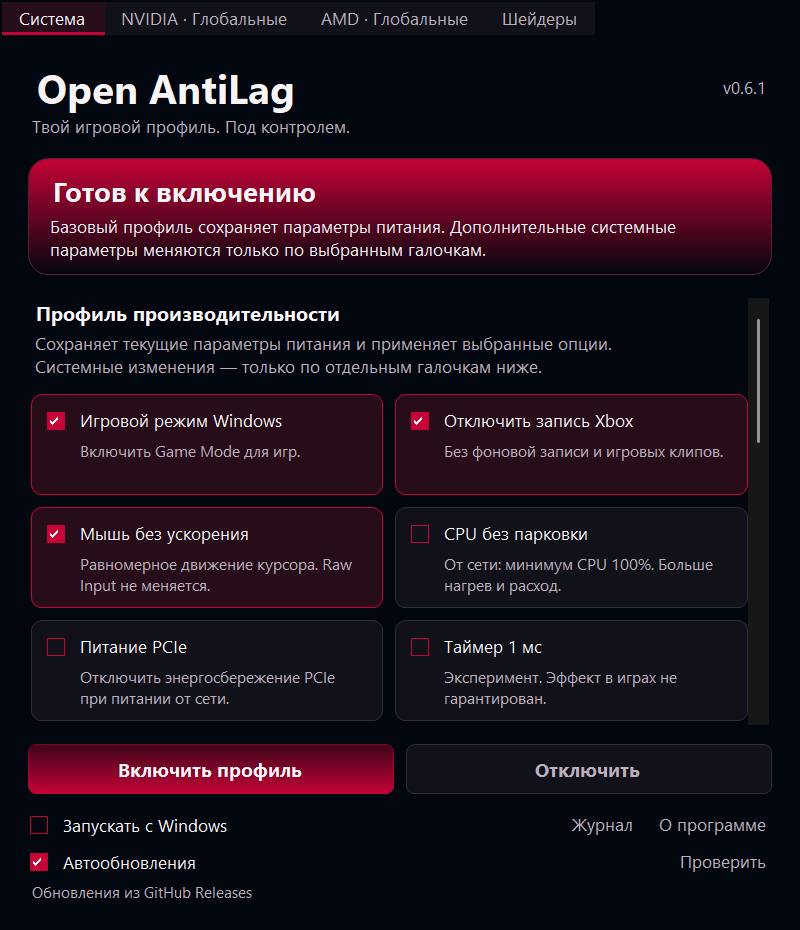
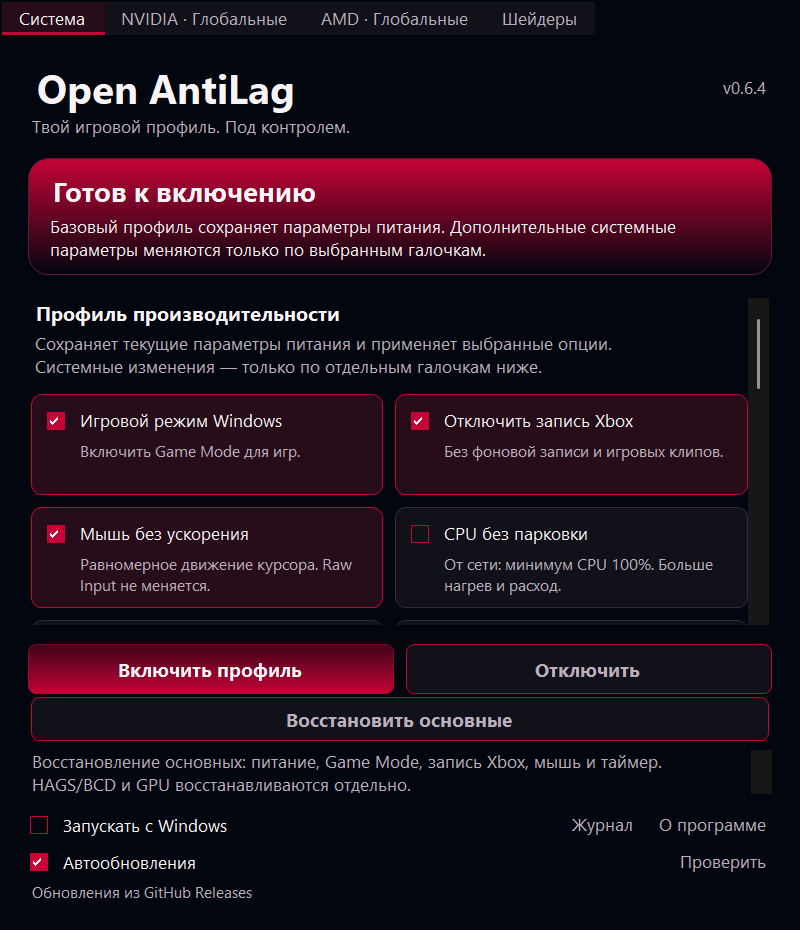
Keep system choices interactive and add independent basic profile recovery

Changed region(s): [[0.0312, 0.686, 0.8438, 0.8731], [0.9375, 0.4366, 0.9688, 0.4677]]

diff --git a/src/MainForm.cs b/src/MainForm.cs
@@ -15,7 +15,8 @@ namespace OpenAntiLag {
         readonly Label status=new Label(), detail=new Label();
         readonly OptionCard gameMode=new OptionCard(), capture=new OptionCard(), mouse=new OptionCard(), cpu=new OptionCard(), pcie=new OptionCard(), timer=new OptionCard(), startup=new OptionCard { Compact=true };
         readonly OptionCard[] advanced=MachineSettings.Ids.Select(id=>new OptionCard {Name="advanced_"+id}).ToArray();
-        readonly ProfileButton enable=new ProfileButton { Primary=true }, disable=new ProfileButton();
+        readonly ProfileButton enable=new ProfileButton { Primary=true }, disable=new ProfileButton(), restoreBasic=new ProfileButton {Name="restoreBasic"};
+        readonly TextBox recoveryResult=new TextBox {Name="recoveryResult",Multiline=true,ReadOnly=true,Height=44,Dock=DockStyle.Fill,ScrollBars=ScrollBars.Vertical,BorderStyle=BorderStyle.None,BackColor=Theme.Background,ForeColor=Theme.Muted};
         readonly NotifyIcon tray;
         readonly System.Windows.Forms.Timer poll;
         readonly Panel scroll=new Panel { Name="profileOptionsScroll",Dock=DockStyle.Fill, AutoScroll=true };
@@ -38,7 +39,7 @@ namespace OpenAntiLag {
             var header=new TableLayoutPanel { Dock=DockStyle.Fill, AutoSize=true, ColumnCount=2, Margin=new Padding(0,0,0,20) };
             header.ColumnStyles.Add(new ColumnStyle(SizeType.Percent,100)); header.ColumnStyles.Add(new ColumnStyle(SizeType.AutoSize));
             header.Controls.Add(Label("Open AntiLag",24,Theme.Text,true),0,0);
-            var version=Label("v0.6.2",10,Theme.Muted,false); version.Anchor=AnchorStyles.Right; header.Controls.Add(version,1,0);
+            var version=Label("v0.6.4",10,Theme.Muted,false); version.Anchor=AnchorStyles.Right; header.Controls.Add(version,1,0);
             var subtitle=Label("Твой игровой профиль. Под контролем.",10,Theme.Muted,false); header.Controls.Add(subtitle,0,1); header.SetColumnSpan(subtitle,2); root.Controls.Add(header,0,0);
             var stateCard=new GradientCard { Dock=DockStyle.Fill, AutoSize=true, ColumnCount=1, BackColor=Theme.Background, Padding=new Padding(18,14,18,14), Margin=new Padding(0,0,0,20) };
             stateCard.ColumnStyles.Add(new ColumnStyle(SizeType.Percent,100));
@@ -64,20 +65,26 @@ namespace OpenAntiLag {
             var advancedGrid=new TableLayoutPanel {AutoSize=true,AutoSizeMode=AutoSizeMode.GrowAndShrink,Dock=DockStyle.Top,ColumnCount=1,Margin=Padding.Empty};advancedGrid.ColumnStyles.Add(new ColumnStyle(SizeType.Percent,100));
             string[] titles={"BCD: автоматический источник часов","BCD: платформенный тик","BCD: отключить динамический тик","Включить HAGS","Приоритет активных приложений"};
             string[] descriptions={"Удалить принудительный useplatformclock. Не отключает устройство HPET.","useplatformtick = yes. Экспериментальная отладочная настройка.","disabledynamictick = yes. Может увеличить расход энергии.","Аппаратное планирование GPU: HwSchMode = 2. После перезагрузки.","Win32PrioritySeparation = 42 (0x2A). Эффект зависит от нагрузки."};
-            var savedMachine=system.State;
+            MachineState savedMachine;
+            try {savedMachine=system.State;}catch(Exception error){savedMachine=new MachineState();recoveryResult.Text="Системный журнал недоступен: "+error.Message+" Основные параметры можно восстановить отдельно.";}
             for(int i=0;i<advanced.Length;i++){advancedGrid.RowStyles.Add(new RowStyle(SizeType.AutoSize));AddOption(advancedGrid,advanced[i],titles[i],descriptions[i],0,i,savedMachine.Version==2&&savedMachine.Phase!="Disabled"&&savedMachine.Entries.Any(x=>x.Id==MachineSettings.Ids[i]));advanced[i].Dock=DockStyle.Top;}
             content.Controls.Add(advancedGrid);
             var actions=new TableLayoutPanel { Dock=DockStyle.Fill, AutoSize=true, ColumnCount=2, Margin=new Padding(0,16,0,12) };
             actions.ColumnStyles.Add(new ColumnStyle(SizeType.Percent,50)); actions.ColumnStyles.Add(new ColumnStyle(SizeType.Percent,50));
             StyleButton(enable,"Включить профиль"); StyleButton(disable,"Отключить"); enable.Name="enable"; disable.Name="disable"; enable.Margin=new Padding(0,0,6,0); disable.Margin=new Padding(6,0,0,0);
             enable.Enabled=disable.Enabled=false; actions.Controls.Add(enable); actions.Controls.Add(disable); root.Controls.Add(actions,0,3);
+            StyleButton(restoreBasic,"Восстановить основные");restoreBasic.Height=44;actions.Controls.Add(restoreBasic,0,1);actions.SetColumnSpan(restoreBasic,2);
+            recoveryResult.HandleCreated+=delegate{WindowTheme.Scrollbar(recoveryResult.Handle);};
+            recoveryResult.Margin=new Padding(0,6,0,0);if(String.IsNullOrEmpty(recoveryResult.Text))recoveryResult.Text="Восстановление основных: питание, Game Mode, запись Xbox, мышь и таймер. HAGS/BCD и GPU восстанавливаются отдельно.";
+            actions.Controls.Add(recoveryResult,0,2);actions.SetColumnSpan(recoveryResult,2);
+            restoreBasic.Click+=async delegate {await RestoreBasic();};
             enable.Click+=async delegate { await ChangeProfile(true); }; disable.Click+=async delegate { await ChangeProfile(false); };
             var footer=new TableLayoutPanel { Dock=DockStyle.Fill, AutoSize=true, ColumnCount=3, Margin=Padding.Empty };
             footer.ColumnStyles.Add(new ColumnStyle(SizeType.Percent,100)); footer.ColumnStyles.Add(new ColumnStyle(SizeType.AutoSize)); footer.ColumnStyles.Add(new ColumnStyle(SizeType.AutoSize));
             startup.Text="Запускать с Windows"; startup.Dock=DockStyle.Fill; startup.Checked=!preview && Startup.Enabled; startup.Margin=Padding.Empty; footer.Controls.Add(startup,0,0);
             startup.CheckedChanged+=delegate { if(initializing||preview)return; try { Startup.Enabled=startup.Checked; } catch(Exception error) { initializing=true; startup.Checked=!startup.Checked; initializing=false; Report(error); } };
             footer.Controls.Add(Link("Журнал",delegate { if(!preview) { Directory.CreateDirectory(Program.DataDirectory); Process.Start("explorer.exe","\""+Program.DataDirectory+"\""); } }),1,0);
-            footer.Controls.Add(Link("О программе",delegate { MessageBox.Show(this,"Open AntiLag 0.6.2 • MIT\nМодуль шейдеров: отдельный SCSKiller 1.2.5, GPL-3.0-or-later и исключения.\nhttps://github.com/BlueHeisenberg/SCSKiller\n\nИсходные значения сохраняются до изменений. Внешние изменения пользователя при откате сохраняются.\n\nПрофиль не гарантирует прирост FPS или нулевую задержку. Настройки Xbox зависят от версии Windows. Таймер 1 мс не является универсальной оптимизацией игр.\n\nBCD, HAGS и системные приоритеты доступны по отдельным галочкам, выключенным по умолчанию. Требуют UAC и перезагрузки. Старые профили можно восстановить. Питание копируется из текущего плана; дополнительные опции требуют отдельного выбора.","Open AntiLag",MessageBoxButtons.OK,MessageBoxIcon.Information); }),2,0); root.Controls.Add(footer,0,4);
+            footer.Controls.Add(Link("О программе",delegate { MessageBox.Show(this,"Open AntiLag 0.6.4 • MIT\nМодуль шейдеров: отдельный SCSKiller 1.2.5, GPL-3.0-or-later и исключения.\nhttps://github.com/BlueHeisenberg/SCSKiller\n\nИсходные значения сохраняются до изменений. Внешние изменения пользователя при откате сохраняются.\n\nПрофиль не гарантирует прирост FPS или нулевую задержку. Настройки Xbox зависят от версии Windows. Таймер 1 мс не является универсальной оптимизацией игр.\n\nBCD, HAGS и системные приоритеты доступны по отдельным галочкам, выключенным по умолчанию. Требуют UAC и перезагрузки. Старые профили можно восстановить. Питание копируется из текущего плана; дополнительные опции требуют отдельного выбора.","Open AntiLag",MessageBoxButtons.OK,MessageBoxIcon.Information); }),2,0); root.Controls.Add(footer,0,4);
             autoUpdate.Text="Автообновления"; autoUpdate.Dock=DockStyle.Fill; autoUpdate.Margin=Padding.Empty;autoUpdate.Checked=preview||Updates.Enabled;
             footer.Controls.Add(autoUpdate,0,1);
             autoUpdate.CheckedChanged+=delegate {if(initializing||preview)return;try {Updates.Enabled=autoUpdate.Checked;if(!autoUpdate.Checked)pendingUpdate=null;}catch(Exception error){Report(error);} };
@@ -88,6 +95,7 @@ namespace OpenAntiLag {
             menu.Items.Add("Выход",null,delegate { if(busy||gpuBusy)return; if(MessageBox.Show(this,"Выход не отключает профиль. Для отката сначала нажмите «Отключить».\n\nВыйти?","Open AntiLag",MessageBoxButtons.YesNo,MessageBoxIcon.Question)!=DialogResult.Yes)return; exiting=true; Close(); });
             tray=new NotifyIcon { Icon=Icon,Text="Open AntiLag",ContextMenuStrip=menu,Visible=!preview }; tray.DoubleClick+=delegate { Reveal(); };
             FormClosing+=delegate(object sender,FormClosingEventArgs e) { if(!exiting && !preview && e.CloseReason==CloseReason.UserClosing) { e.Cancel=true; Hide(); } };
+            Resize+=delegate {bool compact=ClientSize.Height<700;header.Visible=!compact;detail.Visible=!compact;root.Padding=new Padding(compact?12:24);header.Margin=new Padding(0,0,0,compact?6:20);subtitle.Visible=!compact;stateCard.Padding=new Padding(compact?12:18,compact?8:14,compact?12:18,compact?8:14);stateCard.Margin=new Padding(0,0,0,compact?8:20);};
             Resize+=delegate { if(WindowState==FormWindowState.Minimized&&!preview)Hide(); };
             poll=new System.Windows.Forms.Timer { Interval=5000 }; poll.Tick+=async delegate { if(!busy&&Visible)await RefreshState(); if(!busy) {TryInstallUpdate(); if(Updates.Enabled&&DateTime.UtcNow>=nextUpdate)await CheckUpdate(false);} };
             Shown+=async delegate { if(startHidden)Hide(); busy=true; try { await Task.Run((Action)controller.Resume); } catch(Exception error) { Report(error); } finally { busy=false; } await RefreshState(); if(!preview) {if(disable.Text=="Восстановить")Reveal();poll.Start();if(Updates.Enabled)await CheckUpdate(false);} };
@@ -107,35 +115,53 @@ namespace OpenAntiLag {
         ProfileOptions SelectedOptions() { return new ProfileOptions { GameMode=gameMode.Checked,DisableCapture=capture.Checked,DisableMouseAcceleration=mouse.Checked,CpuReady=cpu.Checked,PcieReady=pcie.Checked,Timer=timer.Checked }; }
         void OptionsEnabled(bool value) { foreach(var box in new [] {gameMode,capture,mouse,cpu,pcie,timer}.Concat(advanced))box.Enabled=value; }
         public void Reveal() { Show(); WindowState=FormWindowState.Normal; Activate(); }
+        async Task WaitForRead() {if(readingState)recoveryResult.Text="Ожидаем ответа Windows на проверку состояния. Выбор галочек остаётся доступным.";while(readingState&&!IsDisposed)await Task.Delay(50);}
+        void ResetBasicOptions() {
+            var defaults=ProfileOptions.Gaming();gameMode.Checked=defaults.GameMode;capture.Checked=defaults.DisableCapture;mouse.Checked=defaults.DisableMouseAcceleration;cpu.Checked=pcie.Checked=timer.Checked=false;
+        }
+        async Task RestoreBasic() {
+            await WaitForRead();if(IsDisposed)return;
+            if(busy||gpuBusy){recoveryResult.Text="Сейчас выполняется другая операция. Дождитесь её завершения и повторите восстановление.";return;}
+            bool hadBackup=engine.State.Phase!="Disabled";busy=true;enable.Enabled=disable.Enabled=restoreBasic.Enabled=false;OptionsEnabled(false);
+            recoveryResult.Text="Восстанавливаем основные параметры из сохранённой копии…";
+            try {
+                await Task.Run((Action)engine.Disable);ResetBasicOptions();
+                recoveryResult.Text=hadBackup?"Основные параметры восстановлены. Базовые галочки сброшены; причина оставшейся блокировки показана выше.":"Сохранённого основного профиля нет: настройки Windows не менялись. Галочки возвращены к начальному выбору.";
+                if(!preview)Program.Log("Restored basic profile only");
+            }catch(Exception error){recoveryResult.Text="Восстановление основных не завершено: "+error.Message;if(!preview)Program.Log(recoveryResult.Text);}
+            finally {busy=false;restoreBasic.Enabled=true;}
+            await RefreshState();
+        }
         async Task ChangeProfile(bool on) {
-            if(busy||gpuBusy)return;
+            await WaitForRead();if(IsDisposed)return;
+            if(busy||gpuBusy){recoveryResult.Text="Дождитесь завершения операции на другой вкладке и повторите действие.";return;}
             if(on&&!preview&&Process.GetProcessesByName("68WAntiLagApp").Length>0) { MessageBox.Show(this,"Сначала закройте 68W AntiLag. Его прежние настройки Open AntiLag не отменяет.","Запущен другой AntiLag"); return; }
-            busy=true; enable.Enabled=disable.Enabled=startup.Enabled=false; OptionsEnabled(false); status.Text=on?"Применение профиля…":"Восстановление…";
+            busy=true; enable.Enabled=disable.Enabled=restoreBasic.Enabled=startup.Enabled=false; OptionsEnabled(false); status.Text=on?"Применение профиля…":"Восстановление…";
             var options=SelectedOptions();var selected=advanced.Select((box,i)=>new {box,i}).Where(x=>x.box.Checked).Select(x=>MachineSettings.Ids[x.i]).ToArray();
             try { await Task.Run(delegate { if(on)controller.Enable(options,selected); else controller.Disable(); }); if(!preview)Program.Log(on?"Enabled profile; selected system settings: "+String.Join(",",selected):"Restored profile"); }
-            catch(Exception error) { Report(error); } finally { busy=false; }
-            if(!on && engine.State.Phase=="Disabled" && system.State.Phase=="Disabled") {
-                var defaults=ProfileOptions.Gaming();
-                gameMode.Checked=defaults.GameMode;capture.Checked=defaults.DisableCapture;mouse.Checked=defaults.DisableMouseAcceleration;
-                cpu.Checked=pcie.Checked=timer.Checked=false;foreach(var box in advanced)box.Checked=false;
+            catch(Exception error) { recoveryResult.Text=error.Message;Report(error); } finally { busy=false;restoreBasic.Enabled=true; }
+            if(!on && engine.State.Phase=="Disabled") {
+                ResetBasicOptions();try{if(system.State.Phase=="Disabled")foreach(var box in advanced)box.Checked=false;}catch(Exception error){recoveryResult.Text=error.Message;}
             }
             await RefreshState();
         }
         public async Task RefreshState() {
-            if(busy||gpuBusy)return; busy=true;readingState=true;bool restoreAvailable=engine.State.Phase!="Disabled";
+            if(busy||gpuBusy)return; busy=true;readingState=true;
             try {
-                var machine=system.State;restoreAvailable|=machine.Phase!="Disabled";
-                bool active=await Task.Run(delegate { return engine.IsActive; });
+                // Registry/WMI/driver status must never run on the UI thread.
+                var snapshot=await Task.Run(delegate {var state=system.State;return new {Machine=state,Active=engine.IsActive,Reboot=system.RebootPending};});
+                var machine=snapshot.Machine;
+                bool active=snapshot.Active;
                 bool off=engine.State.Phase=="Disabled"&&machine.Phase=="Disabled";
                 bool legacy=(machine.Phase!="Disabled"&&machine.Version==1) || (engine.State.Phase!="Disabled" && engine.State.SchemaVersion<3);
                 bool recovery=legacy || (!off && engine.State.Phase!="Enabled") || (machine.Phase!="Disabled"&&machine.Phase!="Enabled");
-                bool reboot=system.RebootPending;
+                bool reboot=snapshot.Reboot;
                 status.Text=legacy?"Восстановите старый профиль":recovery?"Нужно восстановление":reboot?"Нужна перезагрузка ПК":off?"Готов к включению":active?"Профиль включён":"Часть настроек изменена";
-                detail.Text=legacy?"Сохранён профиль прошлой версии. Нажмите «Восстановить». Для системных изменений потребуются права администратора и перезагрузка.":recovery?"Операция не завершена. Нажмите «Восстановить».":reboot?"Системные параметры изменены. Для вступления изменений в силу перезагрузите Windows.":off?"Базовый профиль сохраняет параметры питания. Дополнительные системные параметры меняются только по выбранным галочкам.":active?"Выбранные опции применены. Исходные значения сохранены для восстановления.":"При восстановлении ваш внешний выбор будет сохранён.";
-                enable.Enabled=off&&!reboot; disable.Enabled=!off; disable.Text=recovery?"Восстановить":"Отключить"; OptionsEnabled(off&&!reboot); startup.Enabled=true;
+                detail.Text=legacy?"Сохранён профиль прошлой версии. Выбор галочек доступен. Перед применением нажмите «Восстановить». Для системных изменений потребуются права администратора и перезагрузка.":recovery?"Операция не завершена. Нажмите «Восстановить».":reboot?"Галочки можно выбрать сейчас. Применение нового профиля доступно после перезагрузки Windows.":off?"Базовый профиль сохраняет параметры питания. Дополнительные системные параметры меняются только по выбранным галочкам.":active?"Выбранные опции применены. Для нового набора сначала нажмите «Отключить» или «Восстановить основные».":"При восстановлении ваш внешний выбор будет сохранён.";
+                enable.Enabled=true; disable.Enabled=true; disable.Text=recovery?"Восстановить":"Отключить"; OptionsEnabled(true); startup.Enabled=true;
                 tray.Text="Open AntiLag — "+(active?"включён":off?"выключен":"проверить состояние");
-            } catch(Exception error) { status.Text="Ошибка проверки"; detail.Text=error.Message; enable.Enabled=false; disable.Enabled=restoreAvailable; }
-            finally { readingState=false;busy=false; }
+            } catch(Exception error) { status.Text="Ошибка проверки"; detail.Text=error.Message+" Основные параметры можно восстановить отдельной кнопкой ниже."; enable.Enabled=true; disable.Enabled=true;OptionsEnabled(true); }
+            finally { readingState=false;busy=false;restoreBasic.Enabled=true;OptionsEnabled(true); }
         }
         async Task CheckUpdate(bool manual) {
             if(checkingUpdate||exiting||IsDisposed)return;

diff --git a/tests/Tests.cs b/tests/Tests.cs
@@ -145,12 +145,12 @@ namespace OpenAntiLag {
                         CheckLayout(form); on.PerformClick();
                         await WaitUntil(delegate { return engine.State.Phase=="Enabled" && off.Enabled; });
                         Assert(!FindLabels(form).Any(x=>x.Text=="Нужно восстановление"||x.Text=="Нужна перезагрузка ПК"),"Safe profile incorrectly needs system recovery");
-                        Assert(!on.Enabled,"Enable should be disabled when active"); CheckLayout(form); off.PerformClick();
+                        Assert(on.Enabled&&((OptionCard)form.Controls.Find("advanced_hags",true)[0]).Enabled,"Active profile locked selection"); CheckLayout(form); off.PerformClick();
                         await WaitUntil(delegate { return engine.State.Phase=="Disabled" && on.Enabled; });
                         var hagsOption=(OptionCard)form.Controls.Find("advanced_hags",true)[0];hagsOption.Checked=true;on.PerformClick();await WaitUntil(()=>off.Enabled);
                         Assert(off.Text=="Отключить"&&!FindLabels(form).Any(x=>x.Text=="Восстановите старый профиль"),"New selected profile classified as legacy");off.PerformClick();await WaitUntil(()=>on.Enabled);Assert(!hagsOption.Checked,"HAGS checkbox not reset after restore");
                         form.ClientSize=new Size(630,560); form.PerformLayout(); CheckLayout(form);
-                        Assert(on.Bottom<=on.Parent.ClientSize.Height && off.Enabled==false,"Action state/layout invalid");
+                        Assert(on.Bottom<=on.Parent.ClientSize.Height && off.Enabled,"Action state/layout invalid");
                         var tabs=(TabControl)form.Controls.Find("mainTabs",true)[0];
                         for(int i=1;i<3;i++) { tabs.SelectedIndex=i; form.PerformLayout(); var mode=(ComboBox)tabs.TabPages[i].Controls.Find("gpuMode",true)[0]; var guide=(TextBox)tabs.TabPages[i].Controls.Find("gpuGuide",true)[0]; mode.SelectedIndex=1; Assert(guide.Text.Contains("РЕЖИМ: БЕЗ РАЗРЫВОВ"),"VRR guide did not change"); mode.SelectedIndex=0; Assert(guide.Text.Contains("РЕЖИМ: МИНИМАЛЬНАЯ ЗАДЕРЖКА"),"Esports guide did not change"); Assert(guide.Height>100 && guide.Width>400,"Guide not readable"); }
                         var gpuDevice=new FakeNvidiaDevice();var gpuStore=new MemoryNvidiaStore();bool locked=false;
@@ -173,9 +173,9 @@ namespace OpenAntiLag {
                                 legacyForm.Show();
                                 var legacyOn=(Button)legacyForm.Controls.Find("enable",true)[0];var legacyOff=(Button)legacyForm.Controls.Find("disable",true)[0];
                                 await WaitUntil(()=>legacyOff.Enabled);
-                                Assert(!legacyOn.Enabled&&legacyOff.Text=="Восстановить"&&FindLabels(legacyForm).Any(x=>x.Text=="Восстановите старый профиль"),"Migration prompt missing");
-                                legacyOff.PerformClick();await WaitUntil(()=>legacyEngine.State.Phase=="Disabled"&&!legacyOff.Enabled);
-                                Assert(!legacyOn.Enabled&&legacySystem.DisableCalls==1,"Missing reboot gate");
+                                Assert(legacyOn.Enabled&&legacyOff.Text=="Восстановить"&&FindLabels(legacyForm).Any(x=>x.Text=="Восстановите старый профиль"),"Migration prompt missing");
+                                legacyOff.PerformClick();await WaitUntil(()=>legacyEngine.State.Phase=="Disabled"&&legacyOn.Enabled);
+                                Assert(legacyOn.Enabled&&((OptionCard)legacyForm.Controls.Find("advanced_hags",true)[0]).Enabled&&legacySystem.DisableCalls==1,"Pending reboot locked controls");
                                 legacySystem.Pending=false;await legacyForm.RefreshState();
                                 Assert(legacyOn.Enabled,"Cannot enable after restart");legacyOn.PerformClick();await WaitUntil(()=>legacyEngine.State.Phase=="Enabled"&&legacyOff.Enabled);
                                 Assert(!legacyEngine.State.Options.CpuReady&&!legacyEngine.State.Options.PcieReady&&!legacyEngine.State.TimerRequested,"Legacy aggressive options carried into safe profile");
@@ -216,6 +216,20 @@ namespace OpenAntiLag {
                             slowForm.Close();
                         }
                         Console.WriteLine("PASS UI: background profile reading does not block GPU, real GPU exclusion remains");
+                        var restoreHost=new FakeHost();var restoreSystem=new TestSystemClient();
+                        using(var restoreEngine=new Engine(restoreHost,new MemoryStore()))using(var restoreForm=new MainForm(restoreEngine,false,true,restoreSystem)) {
+                            restoreForm.Show();var basic=(Button)restoreForm.Controls.Find("restoreBasic",true)[0];var resultLabel=(TextBox)restoreForm.Controls.Find("recoveryResult",true)[0];
+                            await WaitUntil(()=>((Button)restoreForm.Controls.Find("enable",true)[0]).Enabled);
+                            int originalWrites=restoreHost.Writes;basic.PerformClick();await WaitUntil(()=>resultLabel.Text.StartsWith("Сохранённого"));Assert(restoreHost.Writes==originalWrites,"Empty backup changed Windows");
+                            restoreEngine.Enable(ProfileOptions.Gaming());restoreSystem.FailState=true;await restoreForm.RefreshState();
+                            Assert(basic.Enabled&&((Button)restoreForm.Controls.Find("enable",true)[0]).Enabled&&((OptionCard)restoreForm.Controls.Find("advanced_hags",true)[0]).Enabled,"System state failure locked controls");
+                            restoreHost.Fail="write-game-mode";basic.PerformClick();await WaitUntil(()=>basic.Enabled&&resultLabel.Text.StartsWith("Восстановление основных не завершено"));
+                            Assert(restoreEngine.State.Phase=="Restoring","Failed restore lost recovery state");basic.PerformClick();await WaitUntil(()=>basic.Enabled&&restoreEngine.State.Phase=="Disabled");
+                            Assert(restoreSystem.DisableCalls==0&&restoreHost.Current==FakeHost.Original&&restoreHost.Values["game-mode"][0]==0,"Basic recovery touched system helper or failed restoration");
+                            restoreSystem.FailState=false;await restoreForm.RefreshState();Assert(((Button)restoreForm.Controls.Find("enable",true)[0]).Enabled,"Profile remains blocked after basic recovery");
+                            restoreForm.ClientSize=new Size(630,560);CheckLayout(restoreForm);Assert(basic.Bottom<=basic.Parent.ClientSize.Height,"Recovery button clipped");restoreForm.Close();
+                        }
+                        Console.WriteLine("PASS UI: basic recovery without machine journal, no-backup no-op, failure retry and profile re-enable");
                     } catch(Exception ex) { Console.Error.WriteLine(ex); result=1; }
                     form.Close();
                 };

diff --git a/tests/MachineTests.cs b/tests/MachineTests.cs
@@ -28,10 +28,10 @@ namespace OpenAntiLag {
     }
     public sealed class TestSystemClient : IAdvancedSystemClient {
         public MachineState Value=new MachineState();
-        public bool CancelDisable,FailDisable,Pending;
+        public bool CancelDisable,FailDisable,Pending,FailState;
         public int DisableCalls;public string[] Selected;public bool CancelEnable;
         public void EnableSelected(string[] ids){if(CancelEnable)throw new OperationCanceledException();Selected=ids;Value.Version=2;Value.Phase="Enabled";}
-        public MachineState State {get{return Value;}}
+        public MachineState State {get{if(FailState)throw new IOException("System journal unavailable");return Value;}}
         public bool RebootPending {get{return Pending;}}
         public void Disable(){DisableCalls++;if(CancelDisable)throw new OperationCanceledException();if(FailDisable)throw new IOException("System restore failed");Value.Phase="Disabled";}
     }

diff --git a/src/ShaderEngine.cs b/src/ShaderEngine.cs
@@ -79,7 +79,7 @@ namespace OpenAntiLag {
                 ServicePointManager.SecurityProtocol|=SecurityProtocolType.Tls12;
                 using(var handler=new HttpClientHandler {AllowAutoRedirect=false})
                 using(var client=new HttpClient(handler) {Timeout=TimeSpan.FromMinutes(15)}) {
-                    client.DefaultRequestHeaders.UserAgent.ParseAdd("OpenAntiLag/0.6.2");var uri=new Uri(DownloadUrl);bool downloaded=false;
+                    client.DefaultRequestHeaders.UserAgent.ParseAdd("OpenAntiLag/0.6.4");var uri=new Uri(DownloadUrl);bool downloaded=false;
                     for(int redirect=0;redirect<6;redirect++) {
                         if(!Trusted(uri))throw new InvalidDataException("Недопустимый адрес модуля.");
                         using(var response=await client.GetAsync(uri,HttpCompletionOption.ResponseHeadersRead,ct)) {

diff --git a/src/Updates.cs b/src/Updates.cs
@@ -45,7 +45,7 @@ namespace OpenAntiLag {
         static async Task<byte[]> Get(string address,long limit) {
             ServicePointManager.SecurityProtocol|=SecurityProtocolType.Tls12;
             using(var handler=new HttpClientHandler {AllowAutoRedirect=false})using(var client=new HttpClient(handler) {Timeout=TimeSpan.FromSeconds(45),MaxResponseContentBufferSize=limit}) {
-                client.DefaultRequestHeaders.UserAgent.ParseAdd("OpenAntiLag/0.6.2");
+                client.DefaultRequestHeaders.UserAgent.ParseAdd("OpenAntiLag/0.6.4");
                 Uri url=new Uri(address);
                 for(int n=0;n<6;n++) {
                     if(!Trusted(url))throw new InvalidDataException("Недопустимый адрес обновления.");

diff --git a/src/AssemblyInfo.cs b/src/AssemblyInfo.cs
@@ -2,5 +2,5 @@ using System.Reflection;
 [assembly: AssemblyTitle("Open AntiLag")]
 [assembly: AssemblyDescription("Open-source reversible Windows performance profile manager")]
 [assembly: AssemblyProduct("Open AntiLag")]
-[assembly: AssemblyVersion("0.6.2.0")]
-[assembly: AssemblyFileVersion("0.6.2.0")]
+[assembly: AssemblyVersion("0.6.4.0")]
+[assembly: AssemblyFileVersion("0.6.4.0")]

diff --git a/RELEASE_NOTES.md b/RELEASE_NOTES.md
@@ -1,7 +1,15 @@
-# Open AntiLag 0.6.2 — исправление цикла перезапуска
+# Open AntiLag 0.6.4 — доступные галочки и отдельное восстановление
 
-В 0.6.1 обновлятор ошибочно считал текущей версией 0.6.0 и повторно устанавливал 0.6.1 при каждом запуске. Теперь версия берётся непосредственно из сборки приложения. Дополнительно перед запуском помощника и заменой EXE проверяется, что скачанная версия действительно новее установленной. Повторная установка и понижение версии блокируются.
+Исправлена блокировка всех галочек при активном профиле, ожидании перезагрузки и ошибке проверки. Теперь выбор доступен; применение проверяет условия и показывает причину отказа. Проверка Windows/WMI выполняется в фоне, чтобы не блокировать интерфейс.
 
-Системные настройки, профиль и резервные копии не меняются обновлением. Галочки и исправления интерфейса из 0.6.1 сохранены.
+На вкладке «Система» добавлена постоянная кнопка «Восстановить основные». Она доступна при заблокированном включении профиля и восстанавливает сохранённые настройки питания, Game Mode, записи Xbox, мыши и таймера без обращения к системному помощнику HAGS/BCD и без UAC.
 
-Проверены сборка, 120 автоматических тестов и UI. Добавлены проверки совпадения версии обновлятора с EXE, пропуска текущего релиза и отказа устанавливать ту же сборку. Если автообновление временно отключено для остановки цикла, установите 0.6.2 вручную и затем включите его снова.
+- Восстановление основных работает даже при недоступном системном журнале.
+- Результат или причина ошибки остаются видны под кнопками; после частичной ошибки восстановление можно повторить.
+- При отсутствии резервной копии настройки Windows не меняются, галочки возвращаются к начальному выбору.
+- Нажатия во время фонового чтения профиля ожидают его завершения; при занятой другой вкладке показывается сообщение.
+- Сохранённые HAGS/BCD, требование перезагрузки и GPU-профили не сбрасываются этой кнопкой. Для них остаются отдельные операции восстановления.
+
+Прошли 120 автоматических тестов и UI-проверки, включая восстановление при ошибке системного журнала, отсутствие резервной копии, частичный сбой, повторный откат и доступность включения после восстановления. Настоящие настройки Windows при проверках не менялись.
+
+Исправление цикла обновления из 0.6.2 сохранено. Причину проблемы конкретного ПК без текста ошибки установить нельзя; при оставшейся блокировке посмотрите сообщение над кнопками.
